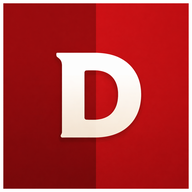
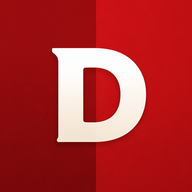
Icones: zoom ~10% i RGB sense alpha per evitar marges blancs al mòbil
- Retallat 5% de cada costat i re-escalat → vermell fins a les vores
- Guardat com RGB (sense canal alpha) perquè iOS no afegeixi fons blanc
- Cache-bust ?v=6 i SW bumpat a v6

Changed region(s): [[0.0, 0.0, 1.0, 1.0], [0.25, 0.25, 0.7812, 0.75], [0.4062, 0.3438, 0.6562, 0.6562]]

diff --git a/index.html b/index.html
@@ -12,7 +12,7 @@
   <title>Denunciem.cat — Fes valer els teus drets</title>
   <meta name="description" content="Hub de canals de queixa, denúncia i pressió a Catalunya. Síndic, Antifrau, Consum, Mossos, Irídia, Plataforma per la Llengua, Ecologistes en Acció...">
   <link rel="icon" type="image/svg+xml" href="favicon.svg">
-  <link rel="apple-touch-icon" href="./imatges/icon-192.png?v=5">
+  <link rel="apple-touch-icon" href="./imatges/icon-192.png?v=6">
   <!-- Vercel Web Analytics (gratis al pla Hobby) -->
   <script>window.va = window.va || function () { (window.vaq = window.vaq || []).push(arguments); };</script>
   <script defer src="/_vercel/insights/script.js"></script>

diff --git a/sw.js b/sw.js
@@ -1,6 +1,6 @@
 // Denunciem.cat — Service Worker
 // Versió: puja-la a cada release
-const CACHE = 'denunciem-v5';
+const CACHE = 'denunciem-v6';
 
 // Core: fitxers que canvien sovint → network-first
 const CORE = [
